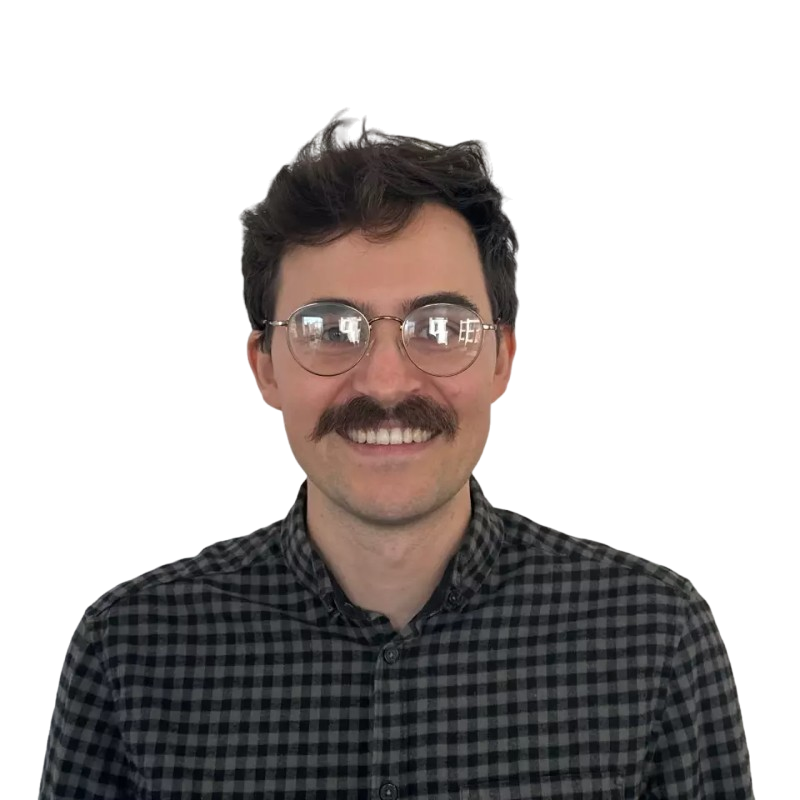
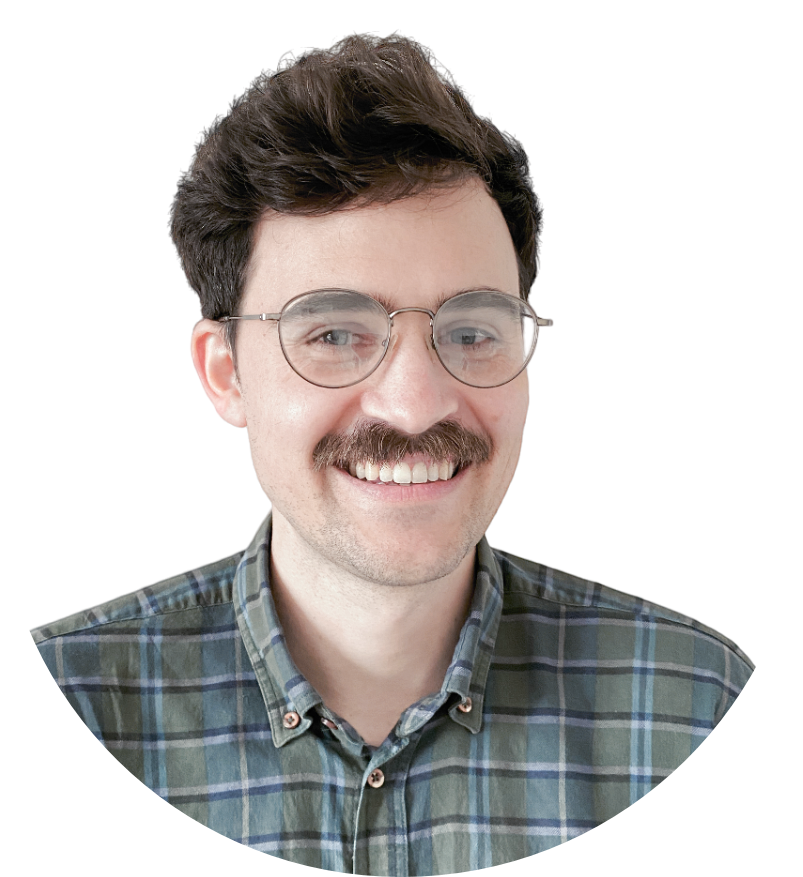
feat: change photo and fix lang

diff --git a/src/style/BoxStyle.jsx b/src/style/BoxStyle.jsx
@@ -62,8 +62,8 @@ export const BoxContent = styled(Box)`
 
 export const BoxPhoto = styled(Box)`
   display: flex;
-  justify-content: flex-end;
-  flex-direction: column;
+  align-items: center;
+  justify-content: center;
   width: 14.1rem;
   border-radius: 10px 0px 0px 0px;
 
@@ -72,8 +72,19 @@ export const BoxPhoto = styled(Box)`
   }
 `;
 
+export const Circle = styled.span`
+  height: 10rem;
+  width: 10rem;
+  background-color: ${(props) => props.theme.colors.primary};
+  border-radius: 50%;
+  position: relative;
+`;
+
 export const ImgMotion = styled(motion.img)`
+  max-width: 10rem;
   opacity: 1;
+  position: absolute;
+  padding-bottom: 0.9375rem;
 `;
 
 export const BoxQuote = styled(Box)`

diff --git a/src/components/Content.jsx b/src/components/Content.jsx
@@ -5,10 +5,11 @@ const Content = () => (
   <BoxContent>
     <Title as={"h1"}>I’m Kévin Jayat</Title>
     <SubTitle as={"h2"}>
-      <SpanBox>magician &</SpanBox>
+      <SpanBox>magicien &</SpanBox>
     </SubTitle>
     <Italic>
-      <Bold as={"em"}>front-end</Bold> developer
+      développeur
+      <Bold as={"em"}> front-end</Bold>
     </Italic>
   </BoxContent>
 );

diff --git a/src/components/Photo.jsx b/src/components/Photo.jsx
@@ -1,8 +1,9 @@
-import { BoxPhoto, ImgMotion } from "../style/BoxStyle";
+import { BoxPhoto, Circle, ImgMotion } from "../style/BoxStyle";
 
 const Photo = ({ src, alt }) => {
   return (
     <BoxPhoto>
+      <Circle />
       <ImgMotion
         initial={{ opacity: 0, filter: "blur(0.5rem)" }}
         animate={{ opacity: 1, filter: "blur(0)" }}

diff --git a/src/components/Button.jsx b/src/components/Button.jsx
@@ -15,7 +15,7 @@ const Button = () => {
         target="_blank"
         rel="noopener noreferrer">
         <Icon shape={svgIcons.downLoad} />
-        <ButtonText>Download my CV</ButtonText>
+        <ButtonText>Téléchargez mon CV</ButtonText>
       </ButtonBox>
     </motion.div>
   );
